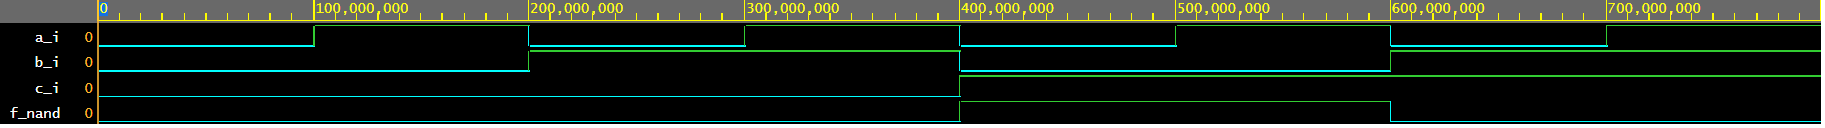
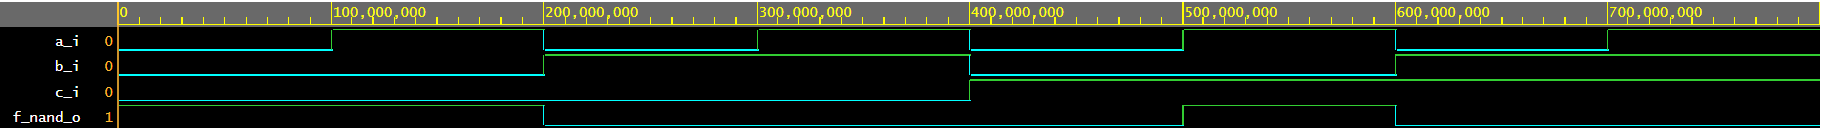
zmena readme

diff --git a/Labs/01-gates/README.md b/Labs/01-gates/README.md
@@ -1,10 +1,10 @@
-### DeMorganowe funkcie - realizacia vo VHDL
+# DeMorganowe zákony - realizacia vo VHDL
 
 **Link na môj EDA PLAYGROUND**
 
 [EDA PLAYGROUND](https://www.edaplayground.com/x/YDCa).
 
-## Prvá DeMorganowa funkcia
+## Prvá funkcia
    
 **VHDL CODE**
 
@@ -30,14 +30,14 @@ end architecture dataflow;
 | 1 | 1 | 1 | 0 |
 
 
-## Druhá DeMorganowa funkcia - NAND
+## Druhá funkcia - NAND
 
 **VHDL CODE**
 
 ```vhdl
 architecture dataflow of gates is
 begin
-    f_nand <=not(not(not b_i) and (a_i)) and (not(not c_i) and (not b_i));
+    f_nand_o <= not (not (not b_i and a_i) and not(not c_i and not b_i));
 end architecture dataflow;
 ```
 
@@ -46,23 +46,23 @@ end architecture dataflow;
 
 | **c** | **b** |**a** | **f(c,b,a)** |
 | :-: | :-: | :-: | :-: |
-| 0 | 0 | 0 | 0 |
-| 0 | 0 | 1 | 0 |
+| 0 | 0 | 0 | 1 |
+| 0 | 0 | 1 | 1 |
 | 0 | 1 | 0 | 0 |
 | 0 | 1 | 1 | 0 |
-| 1 | 0 | 0 | 1 |
+| 1 | 0 | 0 | 0 |
 | 1 | 0 | 1 | 1 |
 | 1 | 1 | 0 | 0 |
 | 1 | 1 | 1 | 0 |
 
-## Tretia Demorganova funkcia - NOR
+## Tretia funkcia - NOR
 
 **VHDL CODE**
 
 ```vhdl
 architecture dataflow of gates is
 begin
-    f_nor  <=not(b_i or (not a_i) or not (c_i or b_i));
+    f_nor  <= not(b_i or not a_i) or not (c_i or b_i);
 end architecture dataflow;
 ```
 
@@ -79,3 +79,15 @@ end architecture dataflow;
 | 1 | 0 | 1 | 1 |
 | 1 | 1 | 0 | 0 |
 | 1 | 1 | 1 | 0 |
+
+# Distribučné zákony
+
+**Link na môj EDA PLAYGROUND**
+
+[EDA PLAYGROUND](https://www.edaplayground.com/x/WwFg)
+
+![FUNCKIA 3](Images/distributivelaws.png)
+
+*Ako môžeme vidieť z obrázka funckia 1 sa rovná funkcií 2 a funkcia 3 sa rovná funkcii 4 - potvrdili sme distribučné zákony.
+
+
